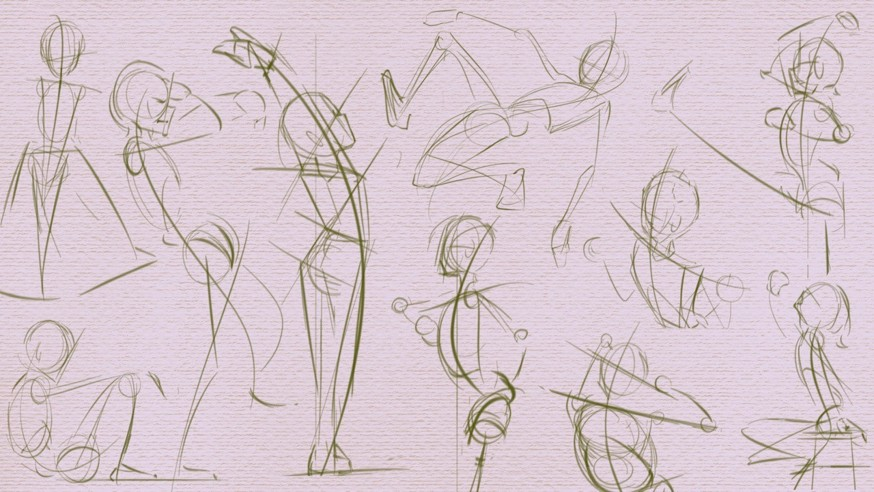
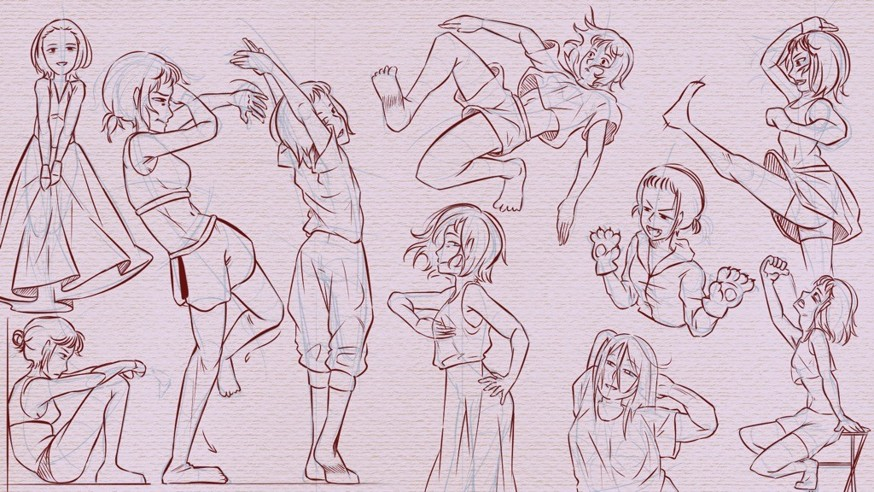
11/16/26_11:00_whenInDoubt-FlipTheLogic

Changed region(s): [[0.0, 0.0, 1.0, 1.0]]

diff --git a/app.js b/app.js
@@ -49,7 +49,7 @@ displayPageANI();
 
 //concept Flipbook
 
-let current_pageCON = 3;
+let current_pageCON = 1;
 
 
 function displayPageCONCEPT(){
@@ -57,17 +57,19 @@ function displayPageCONCEPT(){
     if (conIMG) {
         conIMG.src = "./drtmshp/ani" + current_pageCON + ".jpg"
 
-        if(current_pageCON===3){
+        if(current_pageCON===1){
             document.getElementById('leftCON').style.opacity = '0.75';
             document.getElementById('leftCON').style.pointerEvents = 'none';
+            console.log(conIMG);
         }else{
             document.getElementById('leftCON').style.opacity = '1';
             document.getElementById('leftCON').style.pointerEvents = "auto"
         }
 
-        if(current_pageANI===1){
+        if(current_pageCON===3){
             document.getElementById('rightCON').style.opacity = '0.75';
             document.getElementById('rightCON').style.pointerEvents = 'none';
+            console.log(conIMG);
         }else{
             document.getElementById('rightCON').style.opacity = '1';
             document.getElementById('rightCON').style.pointerEvents = "auto"
@@ -78,14 +80,14 @@ function displayPageCONCEPT(){
 console.log(current_pageCON);
 
 document.getElementById('leftCON')?.addEventListener('click', ()=>{
-    current_pageCON++;
+    current_pageCON--;
     displayPageCONCEPT();
     console.log(current_pageCON + " " + "plus1_Left")
 
 })
 
 document.getElementById('rightCON')?.addEventListener('click', ()=>{
-    current_pageCON--;
+    current_pageCON++;
     displayPageCONCEPT();
     console.log(current_pageCON + " " + "minus1_Right")
 })

diff --git a/ConceptArt.html b/ConceptArt.html
@@ -41,7 +41,7 @@
                 <
             </div>
             <div id="frameCON">
-                <img id="draftsmanship" src="./drtmshp/ani1.jpg" alt="Concept Flipbook" height="350px">
+                <img id="draftsmanship" src="./drtmshp/ani3.jpg" alt="Concept Flipbook" height="350px">
             </div>
             <div id="rightCON"  class="button">
                 >
